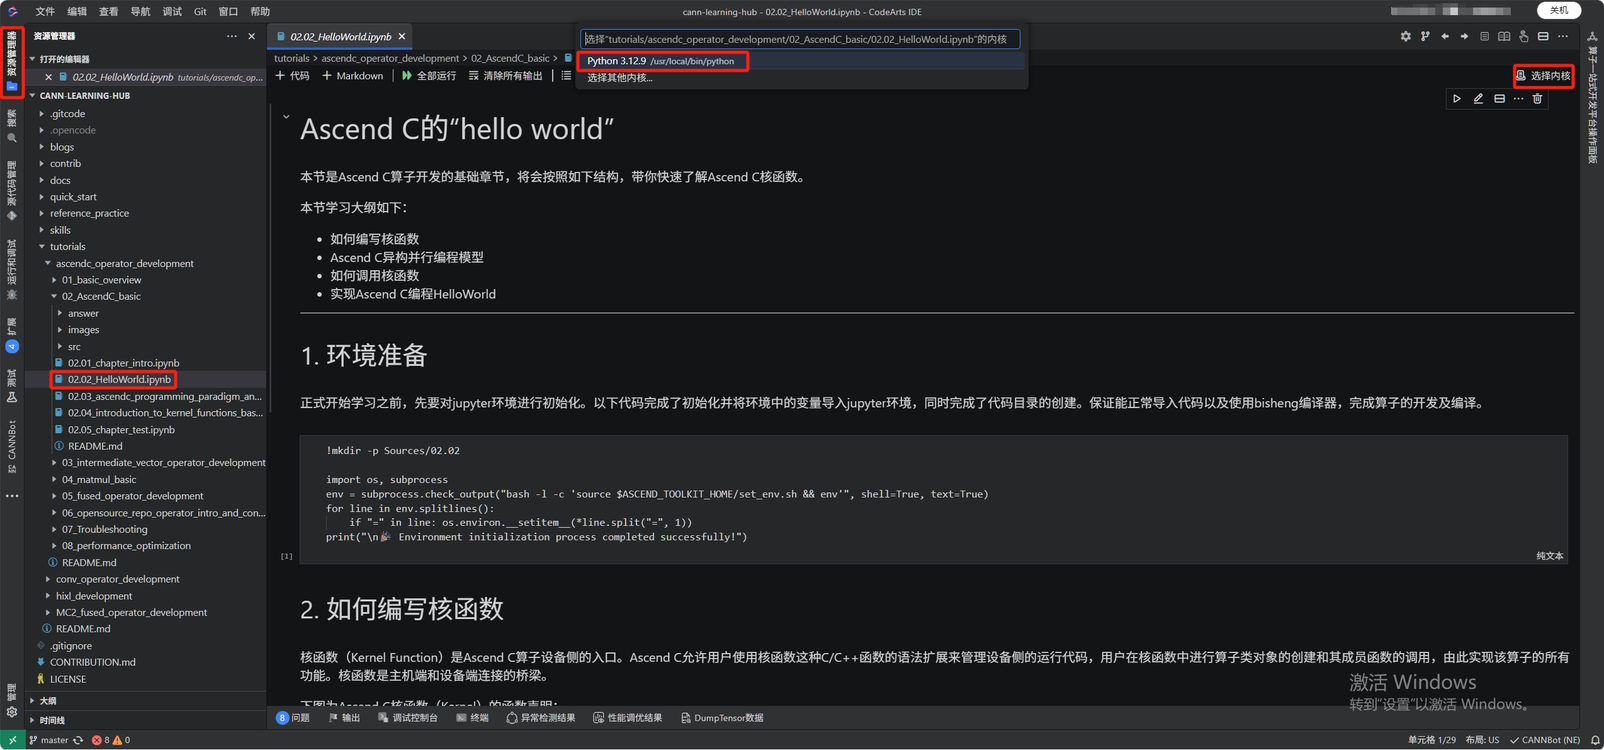
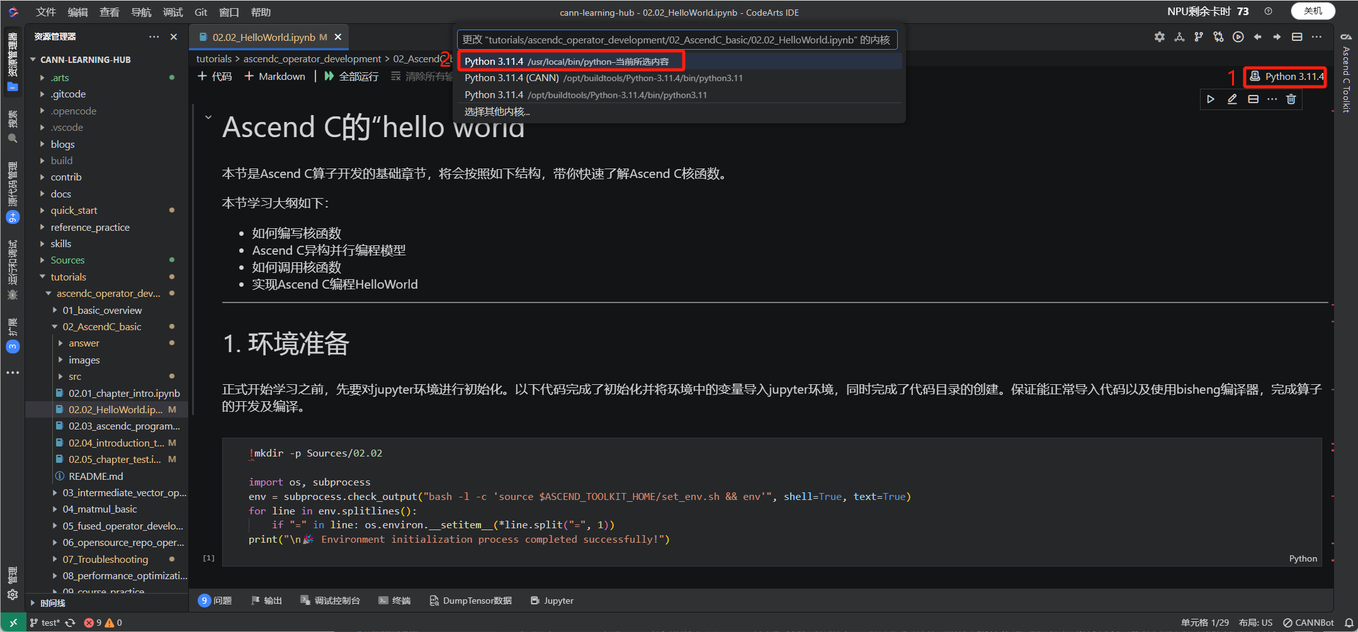
【test】用 master 分支刷新 docs 目录内容
# message auto-generated for no-merge-commit merge:
!420 merge test into test

【test】用 master 分支刷新 docs 目录内容

Created-by: waimaidaole
Commit-by: waimaidaole
Merged-by: cann-robot
Description: ## 描述
<!--在这里详细描述你的改动，包括改动的原因和所采取的方法。-->

## 关联的Issue
<!-- 如果这个PR是为了解决特定的Issue，请在这里提供Issue链接。-->
<!-- 如果这个PR是为了解决特定的问题单，请在这里描述问题单单号。-->

## 测试
<!--描述进行了哪些测试来验证你的改动。包括但不限于二级冒烟、算子泛化等。-->

## 文档更新
<!--如果这个PR包含文档的更新，请在这里指出。例如：更新了README.md文件。-->

## 类型标签
<!--  [x] 表示选中 -->
- [ ] Bug修复
- [ ] 新特性
- [ ] 内容优化
- [ ] 其他，请描述：

## 其他信息
<!-- 在这里可以添加任何与这个 Pull Request 相关的其他说明。 -->

See merge request: cann/cann-learning-hub!420

diff --git a/docs/course_submission_criteria.md b/docs/course_submission_criteria.md
@@ -11,13 +11,12 @@
 | 步骤 | 流程节点 | 责任方 | 验收关注点 |
 | --- | --- | --- | --- |
 | 1 | 课程小组进行课程大纲设计 | 课程组 | 明确课程主题、章节规划、学习路径和目标学习对象。 |
-| 2 | 课程大纲提评审，阐述能力的分层设计逻辑 | 课程组、committer | 说明初级、中级、高级能力递进关系，以及各阶段考核方式。 |
+| 2 | 课程大纲提评审，阐述能力的分层设计逻辑 | 课程组 | 说明初级、中级、高级能力递进关系，以及各阶段考核方式。 |
 | 3 | 课程组内开发分工完成教程内容 | 课程组 | 按照大纲完成 README、章节 notebook、answer、images、src 等内容建设。 |
 | 4 | 提 PR 到 `cann-learning-hub/test` 分支 | 课程组内容开发者 | PR 内容完整，目录结构、命名、Notebook 内容和运行验证满足准入要求。 |
-| 5 | 课程组组长 & committer评审 PR | 课程组组长、committer | 依据准合入 Checklist 检查课程结构、内容质量、代码可执行性和能力递进设计。 |
-| 6 | 达到准入标准，合入 test 分支 | 课程组组长、committer | 所有硬性验收项通过，条件项结论明确后合入 test 分支。 |
-| 7 | test 分支上组织内测，布道师团队体验课程，提 issue 闭环问题 | 课程小组、布道师团队 | 完成在线体验、运行验证和问题反馈；issue 需要明确责任人。 |
-| 8 | 合入 master 分支 | Maintainer | test 分支内测问题闭环后，将课程内容合入 master 分支，对外发布。 |
+| 5 | 达到准入标准，合入 test 分支 | 课程组组长、committer | 所有硬性验收项通过，条件项结论明确后合入 test 分支。 |
+| 6 | test 分支上组织内测，评审团队体验课程，提出 issue，课程组长分配处理 issue，完成闭环 | 评审团队、课程组长 | 完成在线体验、运行验证和问题反馈；issue 需要明确责任人并完成闭环。 |
+| 7 | 合入 master 分支 | Maintainer | test 分支内测问题闭环后，将课程内容合入 master 分支，对外发布。 |
 
 ## 2. 课程大纲与能力分层设计规范
 
@@ -68,8 +67,38 @@ tutorials/
 
 ### 3.2 主 README.md 要求
 
-- 包含教程整体简介、适用对象、整体学习目标。
-- 必须**说明支持或已验证的硬件型号**。
+主 `README.md` 是课程的入口文档，必须包含以下内容：
+
+1. **课程整体简介**：介绍课程内容与整体学习目标。
+2. **课程适用学习人群**：说明学习者需要具备的基础，如前置学习课程、知识储备等。
+3. **课程支持的硬件产品**：列出课程支持且验证的全部硬件型号。若多个硬件产品均支持，需全部列出，让开发者明确自己手头的哪些产品可以跑通课程。
+4. **已验证的在线体验环境**：列举课程已经验证跑通无报错的在线体验环境，可包括：
+   - gitcode 在线体验 notebook
+   - CANNLab 云开发环境
+   - CANNLab 950 尝鲜体验环境
+   - CANNLab CPU 模拟环境
+
+   各环境在主 README 中的标注要求：
+   - **gitcode 在线体验 notebook**：在线体验链接由 committer 统一配置，课程开发时填写 `-` 即可。
+   - **CANNLab 相关环境**：必须附上 [CANNLab 环境体验指南](./CANNLab_env_experience_guide.md) 链接，并**明确指定 NPU 镜像模板名称和打开后的 Python 内核版本**。
+
+   环境验证要求：
+   - 所有课程必须在 CANNLab 环境开箱即用，能够运行起来无报错。验证所用的 CANNLab 环境必须是外部开发者可创建的环境，**不得使用内部用户的 CANNLab 环境或本地环境进行验证**。
+   - 算子课程和部分模型较小（<0.5B）的课程，同时要求在 cann-learning-hub notebook 可直接运行。
+   - **【关键】创建 CANNLab 环境时，必须明确指定 NPU 镜像模板名称和打开后的 Python 内核版本**，否则开发者无法正确复现运行环境，此项为硬性验收项。
+5. **课程章节目录**：分章节用表格展示课程章节名称，并给出跳转链接。参考写法如下：
+
+   ```markdown
+   ### 第一章：章节名称
+
+   | Notebook | Link | 状态 |
+   | -- | -- | -- |
+   | 1.1 章节介绍 | - | ✅ 已发布 |
+   | 1.2 小节名称 | - | ✅ 已发布 |
+   | 1.3 章节实践 | - | ✅ 已发布 |
+   ```
+
+   > 在线体验链接由 committer 统一配置，课程开发时 Link 列填写 `-` 即可。
 
 ### 3.3 单个章节的结构要求
 
@@ -93,6 +122,8 @@ tutorials/
 
 ## 4. Notebook 内容验收标准
 
+- **同一课程内各 notebook 的编写风格应保持一致**。建议图片和表格全部页面居左对齐，使用 HTML `<table>` 格式可以实现表格居左对齐。
+
 - 必须包含**小节概述、教程具体内容、课后练习或课后实践**三个部分。
 
 - 教程具体内容要求：
@@ -114,15 +145,20 @@ tutorials/
 
 课程**上线前必须验证目标硬件对应的在线体验环境**，确保学习者可以直接打开 notebook 完成课程操作。
 
-当前体验环境包括两类：
+课程内容开发者可参考 [基于 CANNLab 环境开发与提交课程指南](./CANNLab_course_development_guide.md) 进行开发与验证。
 
-- learning-hub 的 notebook 在线体验环境。
-- CANNLab，包括 910B/910C 云开发环境以及 950 尝鲜体验环境。
+当前在线体验环境包括：
 
-| 适用课程 | 目标硬件 | 体验环境 | 准入要求 |
-| --- | --- | --- | --- |
-| 所有课程 | A2 / A3 | learning-hub 的 notebook 在线体验环境；CANNLab 的 910B/910C 云开发环境 | 支持 A2/A3 硬件的课程，必须保证在 learning-hub 的 notebook 在线体验环境和 CANNLab 的云开发环境中均可运行且不报错。 |
-| 所有课程 | A5 | CANNLab 的 950 尝鲜体验环境 | 支持 A5 硬件的课程，必须保证在 CANNLab 的 950 尝鲜体验环境中可运行且不报错。 |
+- gitcode 在线体验 notebook
+- CANNLab 云开发环境
+- CANNLab 950 尝鲜体验环境
+- CANNLab CPU 模拟环境
+
+环境验证要求：
+
+- 所有课程必须在 CANNLab 环境开箱即用，能够运行起来无报错。验证所用的 CANNLab 环境必须是外部开发者可创建的环境，**不得使用内部用户的 CANNLab 环境或本地环境进行验证**。
+- 算子课程和部分模型较小（<0.5B）的课程，同时要求在 cann-learning-hub notebook 可直接运行。
+- **【关键】创建 CANNLab 环境时，必须明确指定 NPU 镜像模板名称和打开后的 Python 内核版本**，否则开发者无法正确复现运行环境，此项为硬性验收项。
 
 ## 6. PR 准入 Checklist
 
@@ -134,18 +170,48 @@ tutorials/
 | 4 | 命名规范 | 课程目录、章节目录、文件名均为英文、数字、下划线或点号，不包含中文。 | □ 通过  □ 不通过 |
 | 5 | 章节命名 | 章节目录命名符合 `0n_abc` 格式。 | □ 通过  □ 不通过 |
 | 6 | 小节命名 | 小节 notebook 命名符合 `0n.0m_abc.ipynb` 格式。 | □ 通过  □ 不通过 |
-| 7 | 主 README | 课程根目录包含 `README.md`，并包含教程整体简介、适用对象、整体学习目标、支持或已验证的硬件型号。 | □ 通过  □ 不通过 |
+| 7 | 主 README | 包含课程整体简介、适用学习人群（含基础要求与前置课程）、支持的硬件产品、已验证的在线体验环境、课程章节目录表格。 | □ 通过  □ 不通过 |
 | 8 | 章节目录 | 每个章节包含 `answer`、`images`、`src` 目录。 | □ 通过  □ 不通过 |
 | 9 | 章节概述 | 每个章节第一小节为章节概述，且包含前置要求、章节目标、章节内容和小节跳转链接。 | □ 通过  □ 不通过 |
 | 10 | 章节实践 | 每个章节最后一小节为章节实践，且至少包含一道综合实践题。 | □ 通过  □ 不通过 |
 | 11 | 普通小节 | 每个普通小节包含小节概述、教程内容、课后练习或课后实践。 | □ 通过  □ 不通过 |
 | 12 | 答案目录 | 所有课后练习、课后实践、章节实践均有答案或参考实现，并放入 `answer` 目录。 | □ 通过  □ 不通过 |
 | 13 | 图片引用 | notebook 中适当添加图片，图片位于 `images` 目录并使用相对路径引用。 | □ 通过  □ 不通过 |
-| 14 | 代码执行 | 除纯理论内容外，notebook 中所有代码均可从上到下执行并得到正确结果。 | □ 通过  □ 不通过 |
-| 15 | 代码解耦 | 教程正文代码与实践题代码相互解耦。 | □ 通过  □ 不通过 |
-| 16 | 源码查看 | 源码较多放入 `src` 时，notebook 中提供查看、说明和运行源码的命令。 | □ 通过  □ 不通过  □ 不适用 |
-| 17 | 完整操作 | 学习者无需手动到其他目录查找或修改代码即可完成教程。 | □ 通过  □ 不通过 |
-| 18 | 行文逻辑 | 教程内容行文通顺，逻辑由浅入深，新概念首次出现时解释清楚。 | □ 通过  □ 不通过 |
-| 19 | 运行验证 | 所有 notebook 已完成实际运行验证，PR 描述中说明硬件型号、运行环境、在线体验环境和验证结果。 | □ 通过  □ 不通过 |
-| 20 | A2/A3 在线体验 | 支持 A2/A3 硬件的课程，必须保证能在 learning-hub 的 notebook 在线体验环境和 CANNLab 的云开发环境中可运行且不报错。 | □ 通过  □ 不通过  □ 不适用 |
-| 21 | A5 在线体验 | 支持 A5 硬件的课程，必须保证能在 CANNLab 的 950 尝鲜体验环境中可运行且不报错。 | □ 通过  □ 不通过  □ 不适用 |
+| 14 | 风格一致 | 同一课程各 notebook 编写风格保持一致，图片和表格全部居左对齐（使用 HTML `<table>` 格式）。 | □ 通过  □ 不通过 |
+| 15 | 代码执行 | 除纯理论内容外，notebook 中所有代码均可从上到下执行并得到正确结果。 | □ 通过  □ 不通过 |
+| 16 | 代码解耦 | 教程正文代码与实践题代码相互解耦。 | □ 通过  □ 不通过 |
+| 17 | 源码查看 | 源码较多放入 `src` 时，notebook 中提供查看、说明和运行源码的命令。 | □ 通过  □ 不通过  □ 不适用 |
+| 18 | 完整操作 | 学习者无需手动到其他目录查找或修改代码即可完成教程。 | □ 通过  □ 不通过 |
+| 19 | 行文逻辑 | 教程内容行文通顺，逻辑由浅入深，新概念首次出现时解释清楚。 | □ 通过  □ 不通过 |
+| 20 | 运行验证 | 所有 notebook 已完成实际运行验证，验证所用 CANNLab 环境必须是外部开发者可创建的环境，不得使用内部用户环境或本地环境。PR 描述中说明硬件型号、运行环境、在线体验环境和验证结果。 | □ 通过  □ 不通过 |
+| 21 | CANNLab 环境配置 | 创建 CANNLab 环境时，必须明确指定 NPU 镜像模板名称和打开后的 Python 内核版本，并附上 CANNLab 环境体验指南链接。 | □ 通过  □ 不通过  □ 不适用 |
+| 22 | gitcode notebook | 算子课程和模型较小（<0.5B）的课程，必须在 cann-learning-hub notebook 可直接运行，在线体验链接由 committer 统一配置。 | □ 通过  □ 不通过  □ 不适用 |
+| 23 | 清理输出 | 提交 PR 前必须删除所有 code cell 的输出，notebook 中不得保留运行结果。 | □ 通过  □ 不通过 |
+
+## 附录：课程 PPT 课件上传规范
+
+课程 PPT 课件用于讲师引导式教学，上传时需遵循以下规范：
+
+1. **存放位置**：PPT 文件统一放在课程目录下的 `slides/` 目录中。
+
+   ```text
+   course_name/
+   └── slides/
+       ├── 01_topic_name.pptx
+       ├── 02_topic_name.pptx
+       └── ...
+   ```
+
+2. **文件命名**：使用全英文命名，前置编号固定阅读顺序，格式为 `0n_topic_name.pptx`。
+3. **体积控制**：PPT 中的大图片和视频需压缩处理，单个 PPT 文件尽量控制在 5MB 以内。
+4. **统一模板**：PPT 必须使用 CANN 社区统一 PPT 模板：[ppt_template.pptx](https://gitcode.com/cann/community/blob/master/templates/ppt_template.pptx)。
+5. **主 README 列出课件**：课程主 `README.md` 中使用表格列出并介绍 PPT 课件，参考写法如下：
+
+   ```markdown
+   ## 课程内容
+
+   | 序号 | 主题 | 主要内容 | 课件 |
+   |---|---|---|---|
+   | 01 | 主题名称 | 主要内容概述 | [01_topic_name.pptx](./slides/01_topic_name.pptx) |
+   | 02 | 主题名称 | 主要内容概述 | [02_topic_name.pptx](./slides/02_topic_name.pptx) |
+   ```

diff --git a/docs/CANNLab_course_development_guide.md b/docs/CANNLab_course_development_guide.md
@@ -21,7 +21,7 @@
 | 7 | 发起 PR | 向 `cann/cann-learning-hub` 的 `test` 分支发起 PR。 |
 | 8 | 响应评审 & 迭代修改 | 根据评审意见在环境中修改并更新 PR。 |
 
-详细规范请参见 [新课程上库与上线验收标准](./acceptance_criteria_for_new_course_submission_and_launch.md)，本指南聚焦于 CANNLab 环境下的操作步骤。
+详细规范请参见 [新课程上库与上线验收标准](./course_submission_criteria.md)，本指南聚焦于 CANNLab 环境下的操作步骤。
 
 ---
 
@@ -35,11 +35,12 @@
 
 1. 在 [cann-learning-hub](https://gitcode.com/cann/cann-learning-hub) 仓库页面点击 **Fork**，将仓库 fork 到个人空间。
 
-<img src="./images/CANNLab_env_experience_guide/fork1.png" alt="fork1" width="700px">
+<img src="./images/CANNLab_course_development_guide/fork1.png" alt="fork1" width="700px">
 
-2. 记下个人 fork 仓库地址，例如 `https://gitcode.com/<your_username>/cann-learning-hub.git`。
+2. 记下个人 fork 仓库地址，例如 `https://gitcode.com/<your_username>/cann-learning-hub.git`。Fork 时选择要 Fork 的分支请选择全部。
 
-<img src="./images/CANNLab_env_experience_guide/fork2.png" alt="fork2" width="700px">
+<img src="./images/CANNLab_course_development_guide/fork2.png" alt="fork2" width="700px">
+
 ---
 
 ## 3. 创建并进入 CANNLab 云开发环境
@@ -48,26 +49,26 @@
 
 打开 [cann-learning-hub](https://gitcode.com/cann/cann-learning-hub) 仓库页面，将鼠标移至 **CANNLab** 图标，在弹出选项中选择 **云开发**，使用华为云账号登录并进入开发者空间。
 
-<img src="./images/CANNLab_env_experience_guide/CANNLab.png">
+<img src="./images/CANNLab_course_development_guide/CANNLab.png">
 
-<img src="./images/CANNLab_env_experience_guide/CANNLab2.png" alt="CANNLab2" width="250px">
+<img src="./images/CANNLab_course_development_guide/CANNLab2.png" alt="CANNLab2" width="250px">
 
-> CANNLab 提供两类环境：**云开发环境**（可申请 A2/A3）与 **950 尝鲜体验环境**（可申请 A5）。请根据课程目标硬件选择对应环境。本指南以云开发环境为例。
+> CANNLab 提供两类环境：**云开发环境**（可申请 A2/A3）与 **950 尝鲜体验环境**（可申请 A5）。请根据课程支持的目标硬件选择对应环境。本指南以云开发环境为例。
 
 ### 3.2 创建 NPU 环境
 
 进入页面后点击 **创建** 按钮：
 
-<img src="./images/CANNLab_env_experience_guide/create.png">
+<img src="./images/CANNLab_course_development_guide/create.png">
 
 按课程目标硬件选择规格配置（以 A2 为例）：
 
-<img src="./images/CANNLab_env_experience_guide/create_npu.png" alt="create_npu" width="500px">
+<img src="./images/CANNLab_course_development_guide/select_npu_env.png" alt="select_npu_env" width="500px">
 
 
 点击 **创建** 后，点击 **开机** 启动环境：
 
-<img src="./images/CANNLab_env_experience_guide/start.png">
+<img src="./images/CANNLab_course_development_guide/start.png">
 
 > 注意：如果开机时提示资源不足，说明当前时间段使用人数较多，可稍后再尝试。
 
@@ -75,11 +76,11 @@
 
 环境开机后，点击 **WebIDE** 进入环境（也支持 VS Code 连接）：
 
-<img src="./images/CANNLab_env_experience_guide/webIDE.png">
+<img src="./images/CANNLab_course_development_guide/webIDE.png">
 
 进入后界面类似 VS Code，支持源代码管理、扩展安装、终端等操作：
 
-<img src="./images/CANNLab_env_experience_guide/windows.png">
+<img src="./images/CANNLab_course_development_guide/windows.png">
 
 ---
 
@@ -89,7 +90,7 @@
 
 在 WebIDE 中通过菜单 **Terminal → New Terminal** 打开集成终端。
 
-<img src="./images/CANNLab_env_experience_guide/terminal.png">
+<img src="./images/CANNLab_course_development_guide/terminal.png">
 
 ### 4.2 克隆个人 fork 仓库
 
@@ -117,11 +118,11 @@ git checkout test
 
 克隆完成后，在 WebIDE 中使用快捷键 `Ctrl+K Ctrl+O` 打开工程，在弹出窗口输入 `/mnt/workspace/gitCode/` 目录：
 
-<img src="./images/CANNLab_env_experience_guide/openfile.png">
+<img src="./images/CANNLab_course_development_guide/openfile.png">
 
 选择当前窗口打开：
 
-<img src="./images/CANNLab_env_experience_guide/newwin.png">
+<img src="./images/CANNLab_course_development_guide/newwin.png">
 
 即可在左侧资源管理器中看到自己的 fork 仓库目录结构，直接在其中开发。
 
@@ -194,7 +195,7 @@ tutorials/
 - **+Code**：新增 code cell，用于添加可执行代码。
 - **+Markdown**：新增 markdown cell，用于添加文字说明、图片、表格等。
 
-<img src="./images/CANNLab_env_experience_guide/code.png">
+<img src="./images/CANNLab_course_development_guide/code.png">
 
 ---
 
@@ -229,11 +230,11 @@ git push origin test
 
 进入环境后，点击页签右侧的加号：
 
-<img src="./images/test_branch_course_experience_guide/new.png" width="600">
+<img src="./images/CANNLab_course_development_guide/new.png" width="600">
 
 在弹出菜单中选择打开 Terminal 终端界面：
 
-<img src="./images/test_branch_course_experience_guide/new_terminal.png" width="800">
+<img src="./images/CANNLab_course_development_guide/new_terminal.png" width="800">
 
 在终端中执行以下命令，克隆个人 fork 仓库并切换到 `test` 分支：
 
@@ -247,7 +248,7 @@ git checkout test
 
 从左侧菜单栏点击进入 `cann-learning-hub` 仓库，即可在 Notebook 中查看并打开个人 fork 仓库 `test` 分支下的新增课程内容：
 
-<img src="./images/test_branch_course_experience_guide/cann-learning-hub_contents.png" width="400">
+<img src="./images/CANNLab_course_development_guide/cann-learning-hub_contents.png" width="400">
 
 #### 7.1.2 在 CANNLab 环境中打开
 
@@ -289,9 +290,9 @@ EOF
 
 完成上述配置后，**关机并重新开机**，使内核与环境变量配置生效。开机后通过 WebIDE 重新进入环境，打开每个 `.ipynb` 文件，在右上角 **选择内核**，选择 **Python 3.11.4 (CANN)**：
 
-<img src="./images/CANNLab_env_experience_guide/kernel1.png">
+<img src="./images/CANNLab_course_development_guide/kernel1.png">
 
-<img src="./images/CANNLab_env_experience_guide/kernel2.png">
+<img src="./images/CANNLab_course_development_guide/kernel2.png">
 
 内核选择完成后，从第一个 code cell 开始依次点击运行按钮，确认：
 
@@ -301,9 +302,9 @@ EOF
 
 执行 code cell 及成功结果示意：
 
-<img src="./images/CANNLab_env_experience_guide/run_code_cell.png">
+<img src="./images/CANNLab_course_development_guide/run_code_cell.png">
 
-<img src="./images/CANNLab_env_experience_guide/run_code_cell_success.png">
+<img src="./images/CANNLab_course_development_guide/run_code_cell_success.png">
 
 ### 7.3 验证记录
 
@@ -349,7 +350,7 @@ EOF
 
 ### 8.2 PR 准入自检
 
-提交 PR 前请对照 [PR 准入 Checklist](./acceptance_criteria_for_new_course_submission_and_launch.md#6-pr-准入-checklist) 完成自检，重点关注：
+提交 PR 前请对照 [PR 准入 Checklist](./course_submission_criteria.md#6-pr-准入-checklist) 完成自检，重点关注：
 
 - 课程目录位置、命名规范是否合规。
 - 主 README 是否包含硬件型号与在线体验环境说明。
@@ -419,5 +420,5 @@ git push origin test
 | 文档 | 说明 |
 | --- | --- |
 | [贡献指南](../CONTRIBUTION.md) | 项目整体贡献流程与要求。 |
-| [新课程上库与上线验收标准](./acceptance_criteria_for_new_course_submission_and_launch.md) | 课程目录结构、Notebook 内容、运行验证等准入要求与 PR Checklist。 |
+| [新课程上库与上线验收标准](./course_submission_criteria.md) | 课程目录结构、Notebook 内容、运行验证等准入要求与 PR Checklist。 |
 | [CANNLab 环境体验指南](./CANNLab_env_experience_guide.md) | CANNLab 云开发环境的体验流程（面向学习者）。 |

diff --git a/docs/CANNLab_env_experience_guide.md b/docs/CANNLab_env_experience_guide.md
@@ -27,18 +27,20 @@ CANNLab 提供两种即开即用的 NPU 体验环境。打开 [cann-learning-hub
 
 <img src="./images/CANNLab_env_experience_guide/create.png">
 
-云开发环境支持创建 CPU 环境和 NPU 环境。这里以在 A2 环境上体验 Ascend C 系列课程为例，选择创建 NPU 环境，规格配置如下：
+云开发环境支持创建 CPU 环境和 NPU 环境。这里以在 A2 环境上体验 Ascend C 系列课程为例，创建 NPU 环境，规格配置如下：
 
 - **开发环境名称**：自行命名。
 - **处理器类型**：昇腾 NPU。
-- **模板名称**：`cann_master-py3.12-A2-arm-20260514`。
+- **模板名称**：`cann_9.0.0 py3.11-A2-arm`。
 - **规格**：`1*NPU 910B3 16vCPUs 32GiB`。
 
-<img src="./images/CANNLab_env_experience_guide/create_npu.png" alt="create_npu"  width="500px">
+> 注意：不同课程的规格配置可能会有所不同，开发者需要根据要体验的课程 `README.md` 中说明的规格参数配置并创建对应的 NPU 环境，否则可能会出现未知错误。
 
-点击 **创建** 按钮后，可以看到 NPU 环境已创建。点击 **开机** 按钮启动环境：
+<img src="./images/CANNLab_env_experience_guide/select_npu_env.png" alt="select_npu_env"  width="500px">
 
-<img src="./images/CANNLab_env_experience_guide/start.png">
+点击 **创建** 按钮后，可以看到 NPU 环境已创建。自动开机启动环境：
+
+<img src="./images/CANNLab_env_experience_guide/start.png" alt="start"  width="700px">
 
 > 注意：如果开机时提示资源不足，说明当前时间段使用人数较多，可稍后再尝试。
 
@@ -50,30 +52,14 @@ CANNLab 提供两种即开即用的 NPU 体验环境。打开 [cann-learning-hub
 
 <img src="./images/CANNLab_env_experience_guide/windows.png">
 
-### 2.2 安装 Jupyter 扩展
+### 2.2 体验教程
 
-在 VS Code / CodeArts IDE 中打开 `.ipynb` 文件并执行 Jupyter Notebook 的 code cell，一般需要具备以下扩展：
+环境创建并连接成功后，即可打开仓库中的教程文件进行体验。下面以 `cann-learning-hub/tutorials/ascendc_operator_development/02_AscendC_basic/02.02_HelloWorld.ipynb` 为例：
 
-- **Python 扩展**：用于识别 Python 环境和解释器。
-- **Jupyter 扩展**：用于打开和运行 `.ipynb` 文件，并管理 kernel。
-- **Jupyter Notebook Renderers 扩展**：用于渲染表格、图片、Markdown、HTML、图表等输出内容。
-
-当前环境已安装 **Python 扩展** 和 **Jupyter Notebook Renderers 扩展**，还需要手动安装 **Jupyter 扩展**。点击左侧菜单栏中的 **扩展**，搜索 **Jupyter**，然后点击 **安装**：
-
-<img src="./images/CANNLab_env_experience_guide/jupyter_install.png">
-
-### 2.3 体验教程
-
-完成扩展安装后，即可打开仓库中的教程文件进行体验。下面以 `cann-learning-hub/tutorials/ascendc_operator_development/02_AscendC_basic/02.02_HelloWorld.ipynb` 为例：
-
-点击窗口左侧菜单栏中的 **资源管理器**，在仓库目录中找到并打开 **02.02_HelloWorld.ipynb** 教程文件。打开后，在 Notebook 右上角点击 **选择内核**，选择 Python Kernel，例如 **Python 3.12.9**：
+点击窗口左侧菜单栏中的 **资源管理器**，在仓库目录中找到并打开 **02.02_HelloWorld.ipynb** 教程文件。打开后，在 Notebook 右上角点击 **选择内核**，选择 Python Kernel，例如 **Python 3.11.4**：
 
 <img src="./images/CANNLab_env_experience_guide/select_kernel.png">
 
-内核选择完成后，可以看到 Notebook 右上角已显示 **Python 3.12.9**。此时点击 code cell 左侧的运行按钮，即可正常执行单元格代码：
+内核选择完成后，可以看到 Notebook 右上角已显示 **Python 3.11.4**。此时点击 code cell 左侧的运行按钮，即可正常执行单元格代码，code cell 执行成功后，页面会显示对应的运行结果：
 
 <img src="./images/CANNLab_env_experience_guide/run_code_cell.png" >
-
-code cell 执行成功后，页面会显示对应的运行结果：
-
-<img src="./images/CANNLab_env_experience_guide/run_code_cell_success.png">

diff --git a/docs/README.md b/docs/README.md
@@ -1,12 +1,12 @@
 # docs 文档说明
 
-本目录用于存放 CANN Learning Hub 的流程规范、环境体验指南与课程开发指南，便于课程开发者、评审者和学习者快速定位所需文档。
+本目录用于存放 CANN Learning Hub 的流程规范、环境体验指南，便于课程开发者、评审者和学习者快速定位所需文档。
 
 ## 文档列表
 
 | 文档 | 介绍 | 适用对象 |
 | --- | --- | --- |
-| [新课程上库与上线验收标准](./acceptance_criteria_for_new_course_submission_and_launch.md) | 新课程上库与上线验收标准，说明课程从大纲设计、内容开发、PR 评审、test 分支内测到 master 分支发布的完整流程，并给出课程目录结构、README、Notebook 内容、答案与源码目录、运行验证等准入要求。文末提供 PR 准合入 Checklist，便于自检和评审。 | 课程开发者、课程组组长、committer、Reviewer、Maintainer |
-| [基于 CANNLab 环境开发与提交课程指南](./CANNLab_course_development_guide.md) | 基于 CANNLab 云开发环境完成课程开发、运行验证与 PR 提交的完整流程指南，涵盖环境创建、仓库克隆、课程开发、验证与 PR 提交等步骤。 | 课程开发者、社区贡献者 |
+| [新课程上库与上线验收标准](./course_submission_criteria.md) | 新课程上库与上线验收标准，说明课程从大纲设计、内容开发、PR 评审、test 分支内测到 master 分支发布的完整流程，并给出课程目录结构、README、Notebook 内容、答案与源码目录、运行验证等准入要求。文末提供 PR 准合入 Checklist 与课程 PPT 课件上传规范附录，便于自检和评审。 | 课程开发者、课程组组长、committer、Reviewer、Maintainer |
 | [CANNLab 环境体验指南](./CANNLab_env_experience_guide.md) | CANNLab 云开发环境体验指南，介绍如何通过 CANNLab 进入开发者空间、创建并启动 A2/A3 NPU 云开发环境、使用 WebIDE 连接环境、安装 Jupyter 扩展，以及打开 `.ipynb` 教程进行体验。 | 希望在线运行和体验教程的学习者、课程验证人员 |
-| [Test 分支课程体验指导书](./test_branch_course_experience_guide.md) | 介绍如何在 gitcode 在线 Notebook 体验环境中切换到 test 分支，体验内测课程内容。 | 评审团队、课程验证人员、内测体验者 |
+| [基于 CANNLab 环境开发与提交课程指南](./CANNLab_course_development_guide.md) | 面向课程开发者，介绍如何基于 CANNLab 云开发环境完成课程开发、运行验证与 PR 提交的完整流程，包括 Fork 仓库、创建环境、克隆代码、开发 Notebook、提交推送、运行验证和发起 PR 等步骤。 | 课程开发者、课程组组长、committer |
+| [Test 分支课程体验指导书](./test_branch_course_experience_guide.md) | 介绍如何在 CANNLab 在线体验环境中切换到 test 分支并体验课程，包括打开在线环境、克隆仓库、切换分支等操作步骤。 | 希望在线体验 test 分支课程的学习者 |
